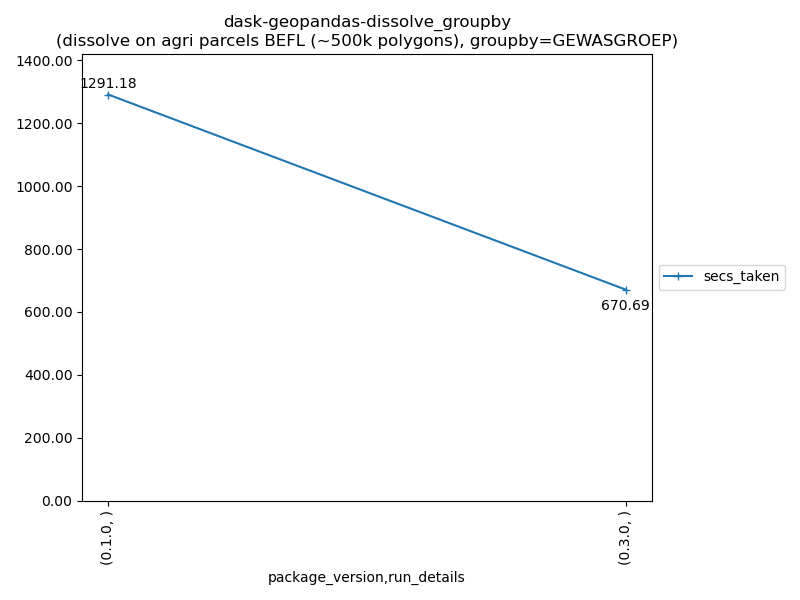
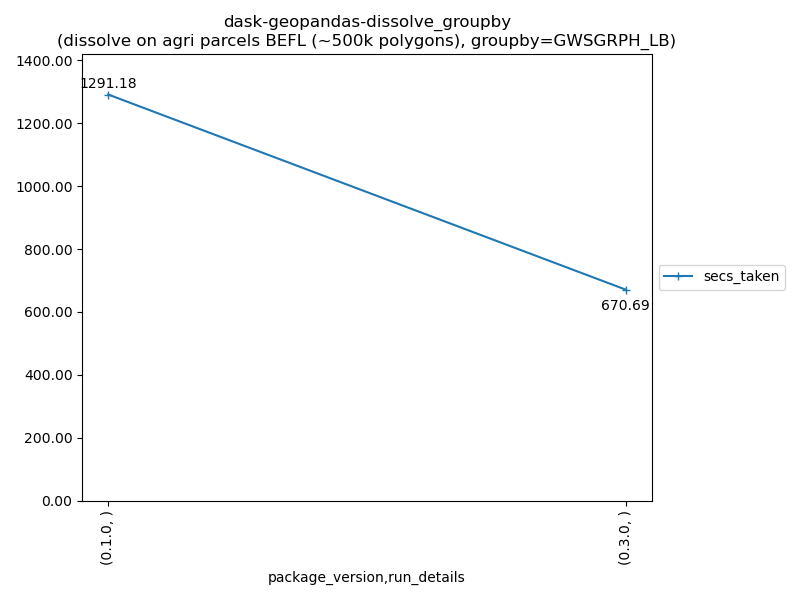
Merge main

Changed region(s): [[0.0625, 0.03, 0.8438, 0.09]]

diff --git a/benchmarks_vector_ops/benchmarks_geofileops.py b/benchmarks_vector_ops/benchmarks_geofileops.py
@@ -129,7 +129,7 @@ def dissolve_groupby(tmp_dir: Path) -> RunResult:
     gfo.dissolve(
         input_path,
         output_path,
-        groupby_columns=["GEWASGROEP"],
+        groupby_columns=["GWSGRPH_LB"],
         explodecollections=True,
         force=True,
         nb_parallel=_get_nb_parallel(),
@@ -140,7 +140,7 @@ def dissolve_groupby(tmp_dir: Path) -> RunResult:
         operation="dissolve_groupby",
         secs_taken=(datetime.now() - start_time).total_seconds(),
         operation_descr=(
-            "dissolve on agri parcels BEFL (~500k polygons), groupby=[GEWASGROEP]"
+            "dissolve on agri parcels BEFL (~500k polygons), groupby=[GWSGRPH_LB]"
         ),
         run_details={"nb_cpu": _get_nb_parallel()},
     )
@@ -183,8 +183,8 @@ def join_by_location_intersects(tmp_dir: Path) -> RunResult:
     # Init
     function_name = inspect.currentframe().f_code.co_name  # type: ignore[union-attr]
 
-    input1_path = testdata.TestFile.AGRIPRC_2018.get_file(tmp_dir)
-    input2_path = testdata.TestFile.AGRIPRC_2019.get_file(tmp_dir)
+    input1_path, _ = testdata.TestFile.AGRIPRC_2018.get_file(tmp_dir)
+    input2_path, _ = testdata.TestFile.AGRIPRC_2019.get_file(tmp_dir)
 
     # Go!
     start_time = datetime.now()

diff --git a/benchmarks_vector_ops/benchmarks_geopandas.py b/benchmarks_vector_ops/benchmarks_geopandas.py
@@ -7,7 +7,7 @@ import inspect
 import logging
 from pathlib import Path
 
-from geofileops.util import geoseries_util
+from geofileops.util import _geoseries_util as geoseries_util
 import geopandas as gpd
 
 from benchmarker import RunResult
@@ -151,7 +151,7 @@ def dissolve_groupby(tmp_dir: Path) -> RunResult:
 
     # dissolve
     start_time_dissolve = datetime.now()
-    result_gdf = gdf.dissolve(by="GEWASGROEP")
+    result_gdf = gdf.dissolve(by="GWSGRPH_LB")
     assert isinstance(result_gdf, gpd.GeoDataFrame)
     result_gdf = result_gdf.explode(ignore_index=True)
     logger.info(
@@ -169,7 +169,7 @@ def dissolve_groupby(tmp_dir: Path) -> RunResult:
         operation="dissolve_groupby",
         secs_taken=(datetime.now() - start_time).total_seconds(),
         operation_descr=(
-            "dissolve on agri parcels BEFL (~500k polygons), groupby=GEWASGROEP"
+            "dissolve on agri parcels BEFL (~500k polygons), groupby=GWSGRPH_LB"
         ),
     )
 

diff --git a/benchmarks_vector_ops/benchmarks_dask_geopandas.py b/benchmarks_vector_ops/benchmarks_dask_geopandas.py
@@ -213,7 +213,7 @@ def dissolve_groupby(tmp_dir: Path) -> RunResult:
     start_time_dissolve = datetime.now()
     dgdf = dgpd.from_geopandas(gdf, npartitions=_get_nb_parallel())
     assert isinstance(dgdf, dgpd.GeoDataFrame)
-    dgdf = dgdf.dissolve(by="GEWASGROEP", split_out=_get_nb_parallel())
+    dgdf = dgdf.dissolve(by="GWSGRPH_LB", split_out=_get_nb_parallel())
     dgdf = dgdf.explode()
     result_gdf = dgdf.compute()
     logger.info(
@@ -244,7 +244,7 @@ def dissolve_groupby(tmp_dir: Path) -> RunResult:
         operation="dissolve_groupby",
         secs_taken=(datetime.now() - start_time).total_seconds(),
         operation_descr=(
-            "dissolve on agri parcels BEFL (~500k polygons), groupby=GEWASGROEP"
+            "dissolve on agri parcels BEFL (~500k polygons), groupby=GWSGRPH_LB"
         ),
     )
 

diff --git a/benchmarks_vector_ops/benchmarks_geopandas_pyogrio.py b/benchmarks_vector_ops/benchmarks_geopandas_pyogrio.py
@@ -114,7 +114,7 @@ def dissolve_groupby(tmp_dir: Path) -> RunResult:
 
     # dissolve
     start_time_dissolve = datetime.now()
-    result_gdf = gdf.dissolve(by="GEWASGROEP")
+    result_gdf = gdf.dissolve(by="GWSGRPH_LB")
     assert isinstance(result_gdf, gpd.GeoDataFrame)
     result_gdf = result_gdf.explode(ignore_index=True)
     logger.info(
@@ -134,7 +134,7 @@ def dissolve_groupby(tmp_dir: Path) -> RunResult:
         operation="dissolve_groupby",
         secs_taken=(datetime.now() - start_time).total_seconds(),
         operation_descr=(
-            "dissolve on agri parcels BEFL (~500k polygons), groupby=GEWASGROEP"
+            "dissolve on agri parcels BEFL (~500k polygons), groupby=GWSGRPH_LB"
         ),
     )
 

diff --git a/run_benchmarks_vector_ops.py b/run_benchmarks_vector_ops.py
@@ -9,8 +9,8 @@ def main():
             benchmarks_subdir="benchmarks_vector_ops",
             results_subdir="results_vector_ops",
             # modules=["benchmarks_geofileops"],
-            modules=["benchmarks_geopandas_pyogrio"],
-            # modules=["benchmarks_geopandas"]
+            # modules=["benchmarks_geopandas_pyogrio"],
+            modules=["benchmarks_geopandas"],
             # modules=["benchmarks_dask_geopandas"],
             # functions=["buffer"],
             # functions=["symdif_complexpolys_agri"],
